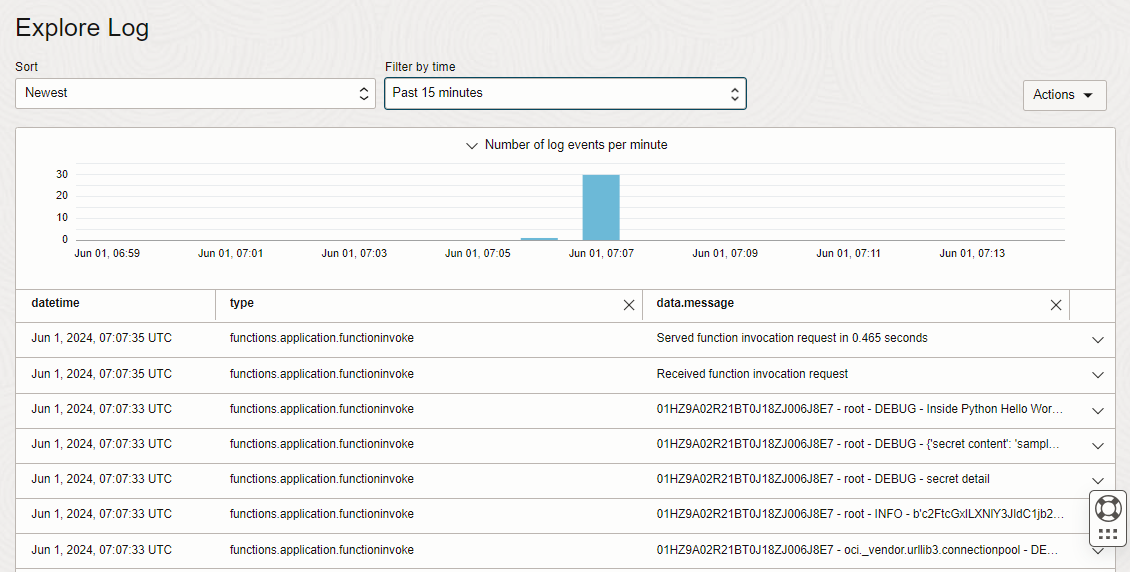
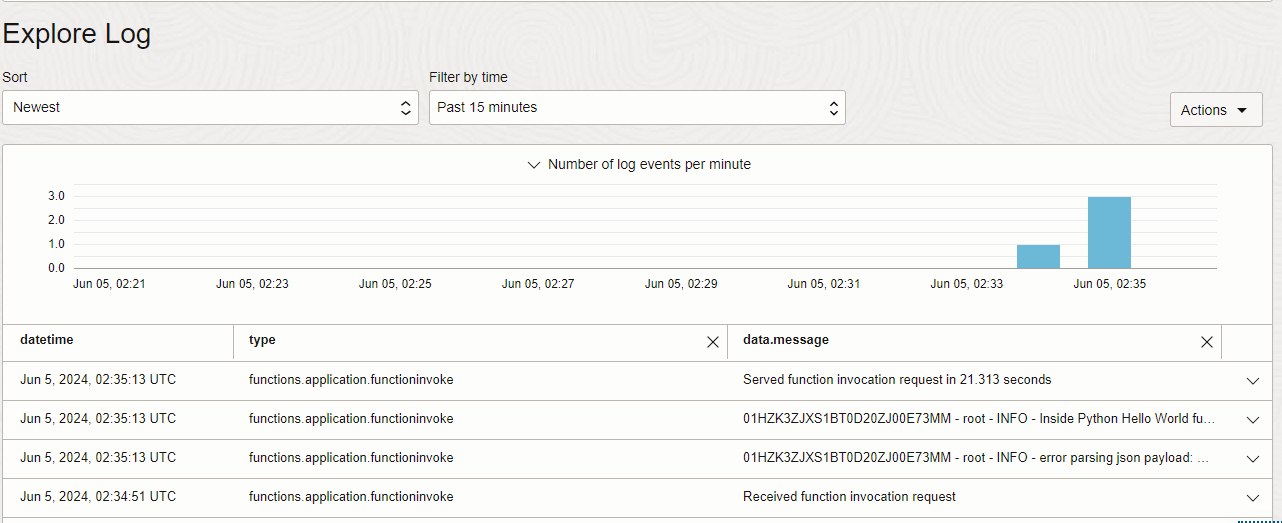
logging change text

diff --git a/9_observability/Logging/README.md b/9_observability/Logging/README.md
@@ -7,13 +7,43 @@ OCI FunctionsのLogを有効化する。
 
 適当なfunctionsを起動させる。
 ```python
-$ fn invoke sample-auth-app sample-auth-func
-{'secret content': 'sample-secret-contents'}
+$ fn invoke cn_func cn_helloworld_func
+{"message": "Hello World"}
 ```
 
 Logが取れる。
 ![alt text](./images/02_log.png)
 
+```log
+{
+  "datetime": 1717554913013,
+  "logContent": {
+    "data": {
+      "applicationId": "ocid1.fnapp.oc1.phx.aaaaaaaaxxxxxxxx",
+      "containerId": "01HZK402MQ00000000000002VD",
+      "functionId": "ocid1.fnfunc.oc1.phx.aaaaaaaaxxxxxxxx",
+      "message": "01HZK3ZJXS1BT0D20ZJ00E73MM - root - INFO - Inside Python Hello World function",
+      "opcRequestId": "/01HZK3ZJWV00000000000P34QQ/01HZK3ZJWV00000000000P34QR",
+      "requestId": "/01HZK3ZJWV00000000000P34QQ/01HZK3ZJWV00000000000P34QR",
+      "src": "STDERR"
+    },
+    "id": "cc4fc754-20df-4bbf-a8f0-8ea42be98403",
+    "oracle": {
+      "compartmentid": "ocid1.compartment.oc1..aaaaaaaaxxxxxxxx",
+      "ingestedtime": "2024-06-05T02:35:27.280Z",
+      "loggroupid": "ocid1.loggroup.oc1.phx.aaaaaaaaxxxxxxxx",
+      "logid": "ocid1.log.oc1.phx.aaaaaaaaxxxxxxxx",
+      "tenantid": "ocid1.tenancy.oc1..aaaaaaaaxxxxxxxx"
+    },
+    "source": "cn_func",
+    "specversion": "1.0",
+    "subject": "cn_helloworld_func",
+    "time": "2024-06-05T02:35:13.013Z",
+    "type": "com.oraclecloud.functions.application.functioninvoke"
+  },
+  "regionId": "us-phoenix-1"
+}
+```
 以上
 
 
